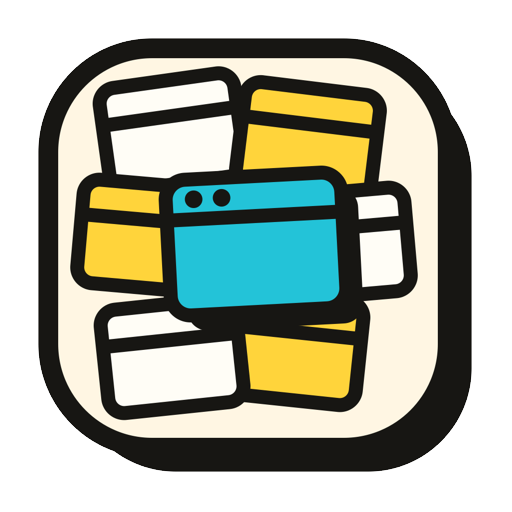
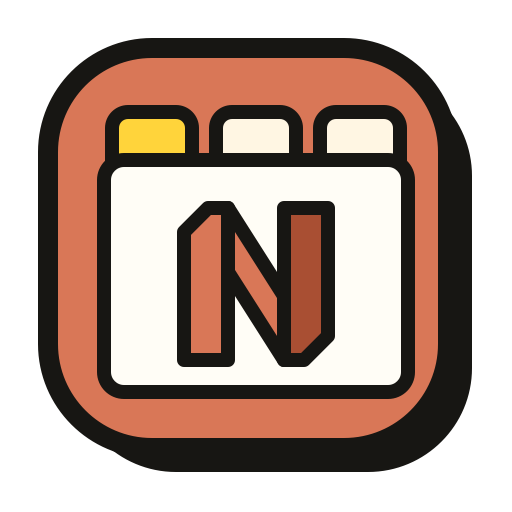
badge v2: ordered tabs + neovim-chamfered N on terracotta
Three tabs over one tidy window replaces the seven-window vortex —
the desktop isn't jumbled anymore, so the badge isn't either.
Claude-crab terracotta tile, yellow active tab carried over from v1,
and an N built neovim-style: chamfered pillars joined by a diagonal.

diff --git a/README.md b/README.md
@@ -7,7 +7,7 @@ per feature, parallel Claude sessions you can tell apart, and shared services
 across all your projects.
 
 <p align="center">
-  <img src="assets/frame-icon.png" alt="frame icon: a stack of overlapping windows" width="216">
+  <img src="assets/frame-icon.png" alt="frame icon: three tabs over a window with a neovim-style N" width="216">
 </p>
 
 <!-- Record with: vhs assets/demo.tape  (see assets/demo.tape) -->
